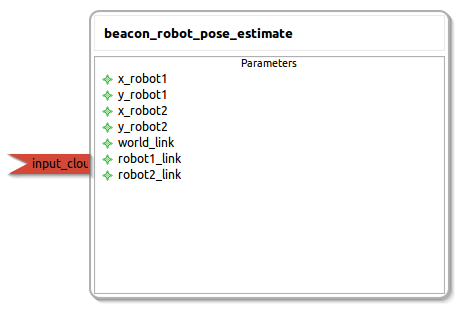
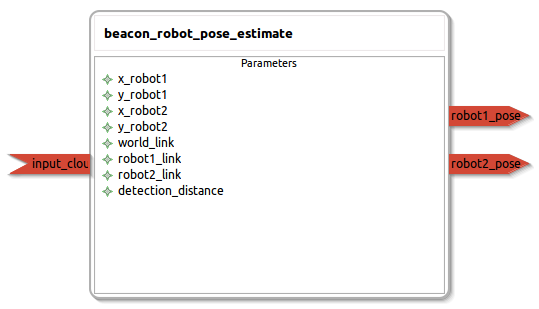
[EUROBOT2016_BEACON] Add few code. Not functionnal yet.

Changed region(s): [[0.0, 0.0291, 0.6391, 0.9903], [0.8217, 0.0291, 1.0, 0.9903], [0.4261, 0.1748, 0.6391, 0.233]]

diff --git a/eurobot2016/beacon/beacon_robot_pose_estimate/common/src/beacon_robot_pose_estimate_common.cpp b/eurobot2016/beacon/beacon_robot_pose_estimate/common/src/beacon_robot_pose_estimate_common.cpp
@@ -1,8 +1,41 @@
 // ROS message includes
 #include "ros/ros.h"
+#include <geometry_msgs/Pose2D.h>
+#include <geometry_msgs/Pose2D.h>
 #include <sensor_msgs/PointCloud2.h>
 
 /* protected region user include files on begin */
+#include <tf/transform_broadcaster.h>
+#include <pcl/point_types.h>
+#include <pcl/io/io.h>
+#include <pcl/io/pcd_io.h>
+#include <pcl/filters/passthrough.h>
+#include <pcl_conversions/pcl_conversions.h>
+#include <pcl_ros/transforms.h>
+#include <pcl/segmentation/extract_clusters.h>
+#include <pcl/filters/statistical_outlier_removal.h>
+#include <pcl/filters/conditional_removal.h>
+
+#include <stdlib.h>
+
+#include <sys/time.h>
+#include <sys/types.h>
+#include <unistd.h>
+
+#include <stdio.h>                                         // for in-/output
+#include <string.h>                                        // strcat
+
+//Include system headers
+#include <cstring>
+#include <iostream>
+#include <cstdio>
+
+#include <sstream>
+#include <math.h>
+#include <vector>
+#include <list>
+
+
 /* protected region user include files end */
 
 class beacon_robot_pose_estimate_config
@@ -15,6 +48,7 @@ public:
     std::string world_link;
     std::string robot1_link;
     std::string robot2_link;
+    double detection_distance;
 };
 
 class beacon_robot_pose_estimate_data
@@ -24,29 +58,90 @@ public:
     //input data
     sensor_msgs::PointCloud2 in_input_cloud;
     //output data
+    geometry_msgs::Pose2D out_robot1_pose;
+    bool out_robot1_pose_active;
+    geometry_msgs::Pose2D out_robot2_pose;
+    bool out_robot2_pose_active;
 };
 
 class beacon_robot_pose_estimate_impl
 {
     /* protected region user member variables on begin */
+	beacon_robot_pose_estimate_config localconfig;
+
+	tf::StampedTransform t;
+	tf::TransformBroadcaster broadcaster;
+
+	std::list<geometry_msgs::PoseStamped> robots;
+
+	bool robot1_output_ready;
+	bool robot2_output_ready;
     /* protected region user member variables end */
 
 public:
     beacon_robot_pose_estimate_impl() 
     {
         /* protected region user constructor on begin */
-        /* protected region user constructor end */
+    	robot1_output_ready = false;
+    	robot2_output_ready = false;
+
+        geometry_msgs::PoseStamped tmp;
+        tmp.header.frame_id = "0";
+        tmp.pose.position.x = 0.0;
+        tmp.pose.position.y = 0.0;
+        tmp.pose.position.z = 0.0;
+        tmp.pose.orientation.x = 0.0;
+        tmp.pose.orientation.y = 0.0;
+        tmp.pose.orientation.z = 1.0;
+        tmp.pose.orientation.w = 0.0;
+        robots.push_back(tmp);
+        tmp.header.frame_id = "1";
+        tmp.pose.position.x = 0.0;
+        tmp.pose.position.y = 0.0;
+        tmp.pose.position.z = 0.0;
+        tmp.pose.orientation.x = 0.0;
+        tmp.pose.orientation.y = 0.0;
+        tmp.pose.orientation.z = 1.0;
+        tmp.pose.orientation.w = 0.0;
+        robots.push_back(tmp);
+
+    	/* protected region user constructor end */
     }
 
     void configure(beacon_robot_pose_estimate_config config) 
     {
         /* protected region user configure on begin */
+    	localconfig = config;
+    	//robots. .at(0).pose.position.x = localconfig.x_robot1;
+    	//robots.at(0).pose.position.y = localconfig.y_robot1;
+    	//robots.at(1).pose.position.x = localconfig.x_robot2;
+    	//robots.at(1).pose.position.y = localconfig.y_robot2;
         /* protected region user configure end */
     }
 
     void update(beacon_robot_pose_estimate_data &data, beacon_robot_pose_estimate_config config)
     {
         /* protected region user update on begin */
+    	data.out_robot1_pose_active = robot1_output_ready;
+    	if(robot1_output_ready)
+    	{
+    		//data.out_robot1_pose.x = robots.at(0).pose.position.x;
+    		robot1_output_ready = false;
+    	}
+    	else
+    	{
+
+    	}
+
+    	data.out_robot2_pose_active = robot2_output_ready;
+    	if(robot2_output_ready)
+		{
+			robot2_output_ready = false;
+		}
+		else
+		{
+
+		}
         /* protected region user update end */
     }
 

diff --git a/eurobot2016/beacon/beacon_robot_pose_estimate/ros/src/beacon_robot_pose_estimate_ros.cpp b/eurobot2016/beacon/beacon_robot_pose_estimate/ros/src/beacon_robot_pose_estimate_ros.cpp
@@ -4,6 +4,8 @@
 #include <beacon_robot_pose_estimate/beacon_robot_pose_estimateConfig.h>
 
 // ROS message includes
+#include <geometry_msgs/Pose2D.h>
+#include <geometry_msgs/Pose2D.h>
 #include <sensor_msgs/PointCloud2.h>
 
 // other includes
@@ -19,6 +21,8 @@ class beacon_robot_pose_estimate_ros
     dynamic_reconfigure::Server<beacon_robot_pose_estimate::beacon_robot_pose_estimateConfig> server;
     dynamic_reconfigure::Server<beacon_robot_pose_estimate::beacon_robot_pose_estimateConfig>::CallbackType f;
 
+    ros::Publisher robot1_pose_;
+    ros::Publisher robot2_pose_;
     ros::Subscriber input_cloud_;
 
     beacon_robot_pose_estimate_data component_data_;
@@ -31,6 +35,8 @@ class beacon_robot_pose_estimate_ros
         server.setCallback(f);
 
 
+        robot1_pose_ = n_.advertise<geometry_msgs::Pose2D>("robot1_pose", 1);
+        robot2_pose_ = n_.advertise<geometry_msgs::Pose2D>("robot2_pose", 1);
         input_cloud_ = n_.subscribe("input_cloud", 1, &beacon_robot_pose_estimate_impl::topicCallback_input_cloud, &component_implementation_);
 
         np_.param("x_robot1", component_config_.x_robot1, (double)0.0);
@@ -40,6 +46,7 @@ class beacon_robot_pose_estimate_ros
         np_.param("world_link", component_config_.world_link, (std::string)"world");
         np_.param("robot1_link", component_config_.robot1_link, (std::string)"robot1_base_link");
         np_.param("robot2_link", component_config_.robot2_link, (std::string)"robot2_base_link");
+        np_.param("detection_distance", component_config_.detection_distance, (double)0.07);
     }
     void topicCallback_input_cloud(const sensor_msgs::PointCloud2::ConstPtr& msg)
     {
@@ -55,6 +62,7 @@ class beacon_robot_pose_estimate_ros
         component_config_.world_link = config.world_link;
         component_config_.robot1_link = config.robot1_link;
         component_config_.robot2_link = config.robot2_link;
+        component_config_.detection_distance = config.detection_distance;
         configure();
     }
 
@@ -65,12 +73,18 @@ class beacon_robot_pose_estimate_ros
 
     void activate_all_output()
     {
+        component_data_.out_robot1_pose_active = true;
+        component_data_.out_robot2_pose_active = true;
     }
 
     void update()
     {
         activate_all_output();
         component_implementation_.update(component_data_, component_config_);
+        if (component_data_.out_robot1_pose_active)
+            robot1_pose_.publish(component_data_.out_robot1_pose);
+        if (component_data_.out_robot2_pose_active)
+            robot2_pose_.publish(component_data_.out_robot2_pose);
     }
 };
 

diff --git a/eurobot2016/beacon/beacon_robot_pose_estimate/README.md b/eurobot2016/beacon/beacon_robot_pose_estimate/README.md
@@ -38,12 +38,27 @@ Node: beacon_robot_pose_estimate
 <!--- protected region robot2_link on begin -->
 <!--- protected region robot2_link end -->
 
+**detection_distance** *(double, default: 0.07)*
+<!--- protected region detection_distance on begin -->
+<!--- protected region detection_distance end -->
+
 
 #### Published Topics
+**robot1_pose** *(geometry_msgs::Pose2D)*   
+<!--- protected region robot1_pose on begin -->
+The published position of the robot 1.
+<!--- protected region robot1_pose end -->
+
+**robot2_pose** *(geometry_msgs::Pose2D)*   
+<!--- protected region robot2_pose on begin -->
+The published position of the robot 2.
+<!--- protected region robot2_pose end -->
+
 
 #### Subscribed Topics
 **input_cloud** *(sensor_msgs::PointCloud2)*   
 <!--- protected region input_cloud on begin -->
+The input PointCloud to find robots.
 <!--- protected region input_cloud end -->
 
 
